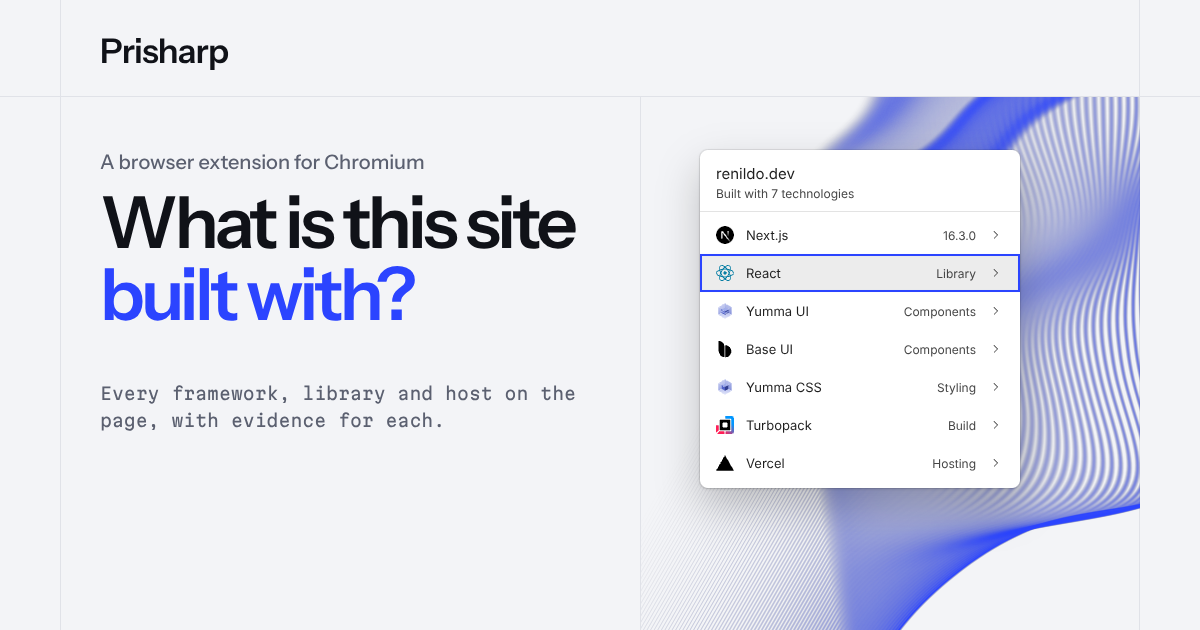
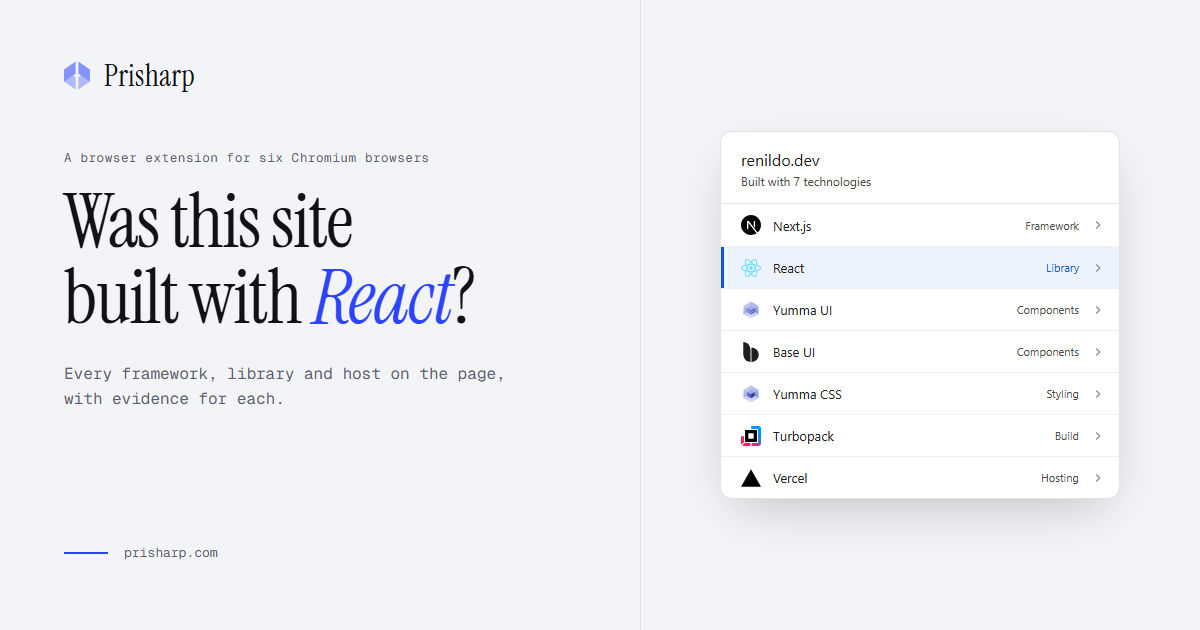
feat: add the four-pane logomark docs: rebuild the share card on the current design

diff --git a/apps/web/src/components/header.tsx b/apps/web/src/components/header.tsx
@@ -1,4 +1,5 @@
 import Button from "@/components/ui/button";
+import { Mark } from "@/components/mark";
 import { DOWNLOAD } from "@/links";
 
 export function Header() {
@@ -6,9 +7,10 @@ export function Header() {
 		<header className="d:f ai:c jc:sb g:4 h:14 px:4 @md:h:18 @md:px:8">
 			<a
 				href="/"
-				className="ff:sans fw:400 ls:2 fs:xl @md:fs:xxl c:label td:none fv:os:s fv:ow:2 fv:oo:4 fv:oc:focus"
+				className="d:f ai:c g:3 c:label td:none fv:os:s fv:ow:2 fv:oo:4 fv:oc:focus"
 			>
-				Prisharp
+				<Mark className="h:6 w:5" />
+				<span className="ff:sans fw:400 ls:2 fs:xl @md:fs:xxl">Prisharp</span>
 			</a>
 			<Button
 				render={<a href={DOWNLOAD} download />}

diff --git a/apps/web/index.html b/apps/web/index.html
@@ -37,7 +37,7 @@
 		<meta property="og:image:height" content="630" />
 		<meta
 			property="og:image:alt"
-			content="Prisharp: What is this site built with? Beside it, the extension's panel lists the seven technologies on renildo.dev."
+			content="Prisharp's logomark and the line 'Was this site built with React?', beside the extension's panel listing the seven technologies on renildo.dev."
 		/>
 		<meta name="twitter:card" content="summary_large_image" />
 	</head>
